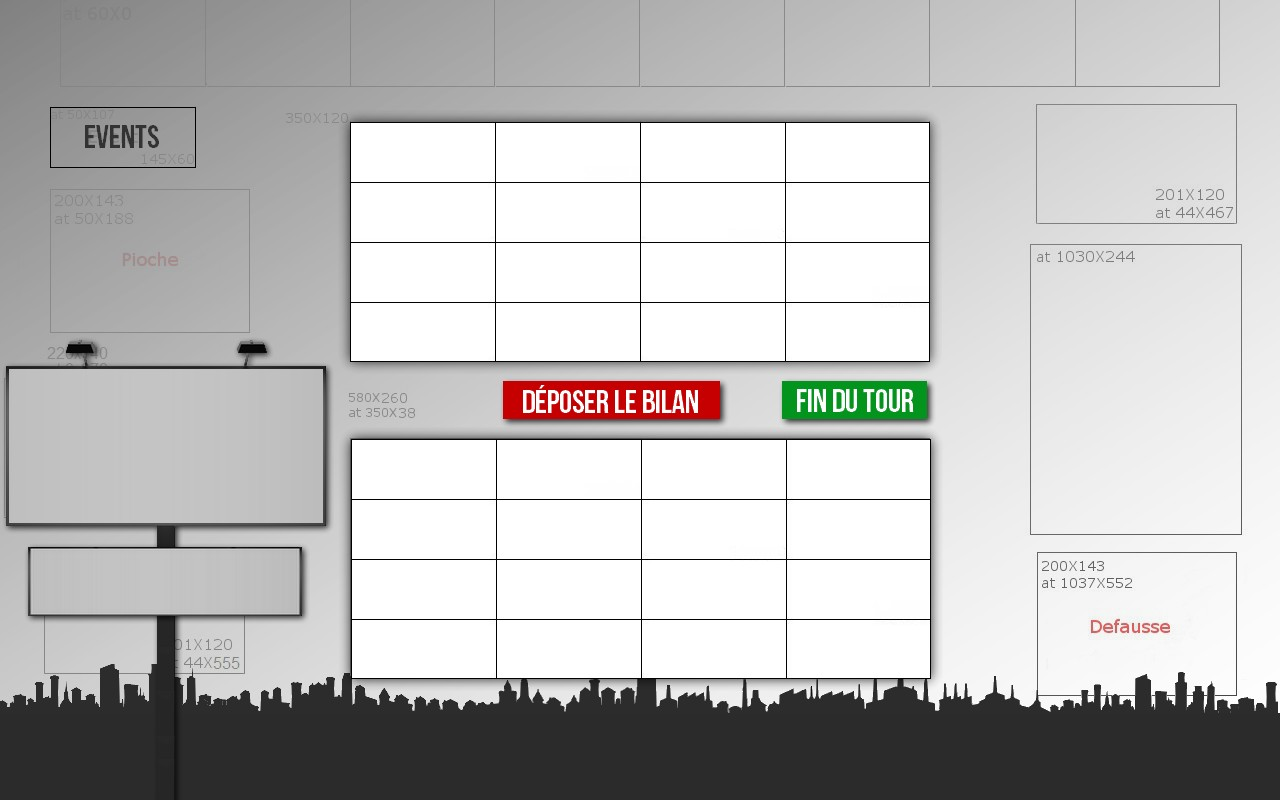
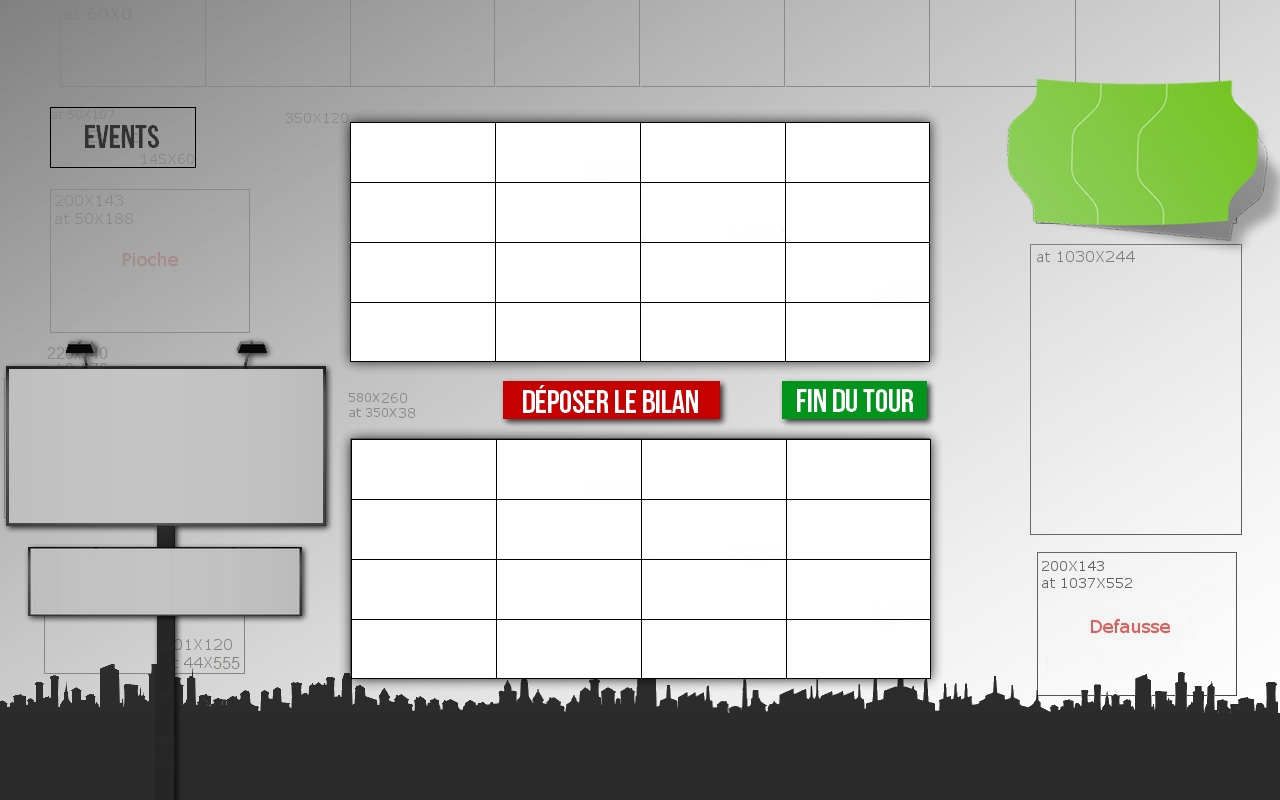
graph_card_Button

Changed region(s): [[0.7812, 0.0938, 1.0, 0.3125]]

diff --git a/src/test_kevin.py b/src/test_kevin.py
@@ -1,0 +1,72 @@
+import pygame
+from pygame.locals import *
+
+pygame.init()
+wh = (300, 400)
+screen = pygame.display.set_mode(wh)
+background_colour = (255,255,255)
+pygame.display.set_caption('Capitalism Launcher')
+from cap_rect import *
+from cap_graph import *
+
+def start():
+	print("start")
+
+def quit():
+	print("quit")
+
+def about():
+	print("about")
+
+event_mouse = []
+event_key = []
+display_list = []
+
+
+# Graphique
+menu_logo = pygame.image.load("card/menu_logo.png").convert_alpha()
+menu_start = pygame.image.load("card/menu_start.png").convert_alpha()
+menu_quit = pygame.image.load("card/menu_quit.png").convert_alpha()
+menu_about = pygame.image.load("card/menu_about.png").convert_alpha()
+
+b1 = cap_graph_Button(cap_Rect(26,200,247,59), cap_Rect(10,30,247,59), menu_start, menu_start, menu_start, start)
+b1.init(event_mouse, event_key, display_list)
+b1.visibility(True)
+
+b2 = cap_graph_Button(cap_Rect(26,260,247,59), cap_Rect(10,30,247,59), menu_quit, menu_quit, menu_quit, quit)
+b2.init(event_mouse, event_key, display_list)
+b2.visibility(True)
+
+b3 = cap_graph_Button(cap_Rect(26,320,247,59), cap_Rect(10,30,247,59), menu_about, menu_about, menu_about, about)
+b3.init(event_mouse, event_key, display_list)
+b3.visibility(True)
+
+
+
+running = True
+while running:
+	screen.fill(background_colour)
+	screen.blit(menu_logo, (25,10))
+
+	for clbk in display_list :
+		clbk(screen)
+
+	pygame.display.flip()
+
+	for event in pygame.event.get():
+		if event.type == pygame.QUIT:
+			running = False
+
+		if event.type == KEYDOWN:
+			if event.key == K_ESCAPE:
+				running = False
+
+		if event.type == MOUSEBUTTONDOWN or event.type == MOUSEBUTTONUP or event.type == MOUSEMOTION:
+			for clbk in event_mouse :
+				if clbk[0] == event.type and (not hasattr(event, "button") or clbk[1] == event.button):
+					if hasattr(event, 'button') :
+						button = event.button
+					else :
+						button = 0
+					if clbk[2](event.type, button, event.pos[0], event.pos[1]):
+						break

diff --git a/src/cap_graph.py b/src/cap_graph.py
@@ -115,6 +115,46 @@ class cap_Graph_object:
 		if self.visible :
 			cap_blit_alpha(window, self.to_display, (self.rect.x, self.rect.y), self.opacity)
 
+class cap_graph_Button(cap_Graph_object):
+	def __init__(self, rect, rect_click, bg_image, bg_image_hover, bg_image_click, callback):
+		cap_Graph_object.__init__(self, rect, rect_click)
+		self.bg_image = bg_image
+		self.bg_image_click = bg_image_click
+		self.bg_image_hover = bg_image_hover
+		self.callback = callback
+		self.state = 0 # 0 = rien, 1 = hover, 2 = click
+
+	def onClick(self, event_type, event_code, x, y):
+		if self.rect_click.isIn(x-self.rect.x, y-self.rect.y):
+			self.state = 2
+		else:
+			self.state = 0
+
+	def onHover(self, event_type, event_code, x, y):
+		if self.rect_click.isIn(x-self.rect.x, y-self.rect.y):
+			self.state = 1
+		else:
+			self.state = 0
+
+	def update(self):
+		self.erase()
+		if self.state == 0:
+			self.to_display.blit(self.bg_image, (0, 0))
+		elif self.state == 1:
+			self.to_display.blit(self.bg_image_hover, (0, 0))
+		elif self.state == 2:
+			self.to_display.blit(self.bg_image_click, (0, 0))
+
+	def init(self, event_mouse, event_key, display_list):
+		cap_Graph_object.init(self, event_mouse, event_key, display_list)
+		event_mouse.insert(0, (MOUSEMOTION, 0, self.onHover))
+		event_mouse.insert(0, (MOUSEBUTTONDOWN, 1, self.onClick))
+		event_mouse.insert(0, (MOUSEBUTTONUP, 1, self.onAction))
+		self.update()
+
+	def onAction(self, event_type, event_code, x, y):
+		if self.rect_click.isIn(x-self.rect.x, y-self.rect.y):
+			self.callback()
 
 # Pop-up & log
 class cap_Graph_msg(cap_Graph_object):
